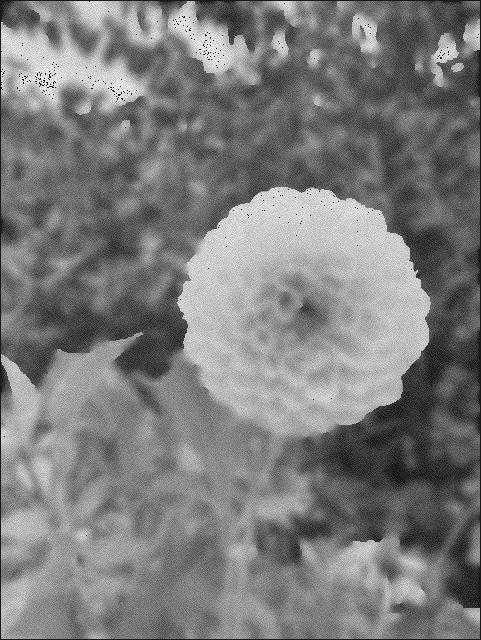
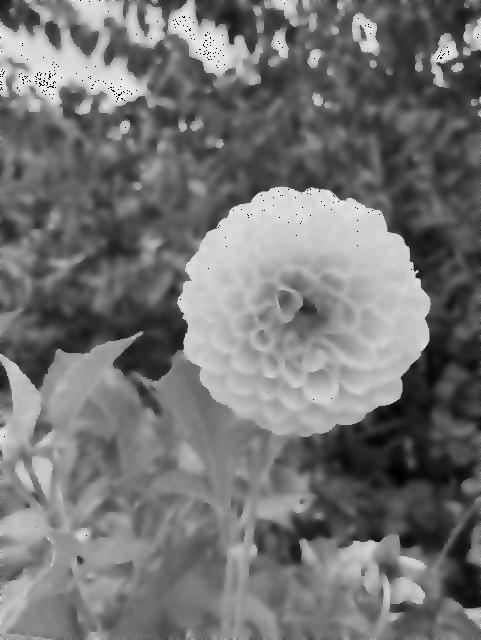
perona-malik

diff --git a/Perona_Malik_Base.py b/Perona_Malik_Base.py
@@ -64,7 +64,7 @@ def diffusion_equation(img, iters, k=.1):
 
     return img
 
-def diffusion_four_directions(img, iters, k, coeff=1):
+def diffusion_four_directions(img, iters, k, lam = 0.12, coeff=1):
     # normalize
     img = img / 255
     dx = 1
@@ -81,13 +81,13 @@ def diffusion_four_directions(img, iters, k, coeff=1):
         WEST = previous[dx:img.shape[0]-1, :img.shape[1]-2] - previous[dx:img.shape[0]-1, dy:img.shape[1]-1]
 
         if coeff == 1:
-            img[dx:img.shape[0]-1, dy:img.shape[1]-1] = previous[dx:img.shape[0]-1, dy:img.shape[1]-1] + (diffusion_coeff1(NORTH, k) * NORTH + diffusion_coeff1(SOUTH, k) * SOUTH + diffusion_coeff1(EAST, k) * EAST +
+            img[dx:img.shape[0]-1, dy:img.shape[1]-1] = previous[dx:img.shape[0]-1, dy:img.shape[1]-1] + lam*(diffusion_coeff1(NORTH, k) * NORTH + diffusion_coeff1(SOUTH, k) * SOUTH + diffusion_coeff1(EAST, k) * EAST +
                                         diffusion_coeff1(WEST, k) * WEST)
             
         elif coeff == 2:
-            img[dx:img.shape[0]-1, dy:img.shape[1]-1] = previous[dx:img.shape[0]-1, dy:img.shape[1]-1] + (diffusion_coeff2(NORTH, k) * NORTH +diffusion_coeff2(SOUTH, k) * SOUTH +diffusion_coeff2(EAST, k) * EAST + diffusion_coeff2(WEST, k) * WEST)
+            img[dx:img.shape[0]-1, dy:img.shape[1]-1] = previous[dx:img.shape[0]-1, dy:img.shape[1]-1] + lam*(diffusion_coeff2(NORTH, k) * NORTH +diffusion_coeff2(SOUTH, k) * SOUTH +diffusion_coeff2(EAST, k) * EAST + diffusion_coeff2(WEST, k) * WEST)
         else:
             img[dx:img.shape[0]-1, dy:img.shape[1]-1] = previous[dx:img.shape[0]-1, dy:img.shape[1]-1] + \
-                                 (custom_coeff(NORTH, k) * NORTH + custom_coeff(SOUTH, k) * SOUTH + custom_coeff(EAST, k) * EAST + custom_coeff(WEST, k) * WEST)
+                                 0.25*(custom_coeff(NORTH, k) * NORTH + custom_coeff(SOUTH, k) * SOUTH + custom_coeff(EAST, k) * EAST + custom_coeff(WEST, k) * WEST)
 
     return img

diff --git a/main.py b/main.py
@@ -15,7 +15,7 @@ params = {
     'shot': {'iters': 30, 'k': .1},
     's&p': {'iters': 30, 'k': .1}
 }
-coeff = 1
+coeff = 3
 for noise in types_of_noise:
     print('----- Running experiment for ' + noise + ' Noise -----')
     # For each type of noise, run Perona-Malik
@@ -23,7 +23,7 @@ for noise in types_of_noise:
     # list all images
     imgs = glob.glob(img_dir_noise + '*')
     # results directory
-    results_dir = '/home/zoe/ECE6560_ImageDenoising/Results/X_' + str(coeff) + '/'
+    results_dir = '/home/zoe/ECE6560_ImageDenoising/Results/coeff' + str(coeff) + '/'
     results_dir += noise + '/'
     if not os.path.exists(results_dir):
         os.makedirs(results_dir)
